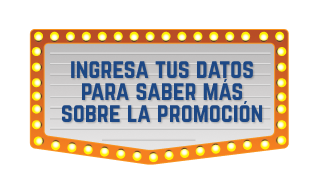
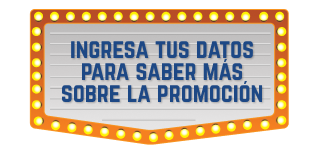
Organizar height de imagenes del landing

diff --git a/public/css/styles.css b/public/css/styles.css
@@ -1,1 +1,1 @@
-@import url("https://fonts.googleapis.com/css?family=Roboto:100,100i,300,300i,400,400i,500,500i,700,700i,900,900i&display=swap");a,abbr,acronym,address,applet,article,aside,audio,b,big,blockquote,body,canvas,caption,center,cite,code,dd,del,details,dfn,div,dl,dt,em,embed,fieldset,figcaption,figure,footer,form,h1,h2,h3,h4,h5,h6,header,hgroup,html,i,iframe,img,ins,kbd,label,legend,li,mark,menu,nav,object,ol,output,p,pre,q,ruby,s,samp,section,small,span,strike,strong,sub,summary,sup,table,tbody,td,tfoot,th,thead,time,tr,tt,u,ul,var,video{margin:0;padding:0;border:0;font-size:100%;font:inherit;vertical-align:baseline}article,aside,details,figcaption,figure,footer,header,hgroup,menu,nav,section{display:block}body{line-height:1;margin:0;padding:0}ol,ul{list-style:none}blockquote,q{quotes:none}blockquote:after,blockquote:before,q:after,q:before{content:"";content:none}table{border-collapse:collapse;border-spacing:0}*{margin:0;padding:0;box-sizing:border-box}body{background-color:#552e89}.landing{width:100%;font-family:Roboto,sans-serif;margin:0 auto}.landing .back{width:100%;height:800px;position:relative;z-index:1;display:block;background:url(../images/fondoHome.png);background-repeat:no-repeat;background-size:cover}:-ms-input-placeholder{opacity:1}::placeholder{color:#fff;opacity:1}:-ms-input-placeholder,::-ms-input-placeholder{color:#fff}.paragraphs{font-size:1.5em;font-weight:200;line-height:1.2em}.special{font-weight:900;font-size:1em}@media (min-width:771px) and (max-width:1200px){.landing .back{background-size:contain}}@media (min-width:601px) and (max-width:770px){.landing .back{background-size:contain}}@media (max-width:600px){.landing .back{background:url(../images/fondoMobile.png);background-repeat:no-repeat;background-size:contain}}.content-start{height:100%}.content-start .start{width:100%;height:100%;margin:0 auto;box-sizing:border-box}.content-start .start__promotional{width:100%;display:-ms-flexbox;display:flex}.content-start .start__promotional .title{width:100%}.content-start .start__promotional .title__image{height:450px}.content-start .start__promotional .logoPromotional{width:100%}.content-start .start__promotional .logoPromotional__image{height:209px}.content-start .start__promotional .cinema{width:100%;margin-top:1em}.content-start .start__promotional .cinema__image{height:80px}.content-start .start__form{width:100%;padding:0}.content-start .start__form .form{width:60%;margin:0 auto}.content-start .start__form .form__title{width:100%}.content-start .start__form .form__title .title{height:190px}.content-start .start__form .form__questions{width:100%}.content-start .start__form .form__questions .content-question{width:80%;color:#fff}.content-start .start__form .form__questions .content-question .question__user{width:100%;height:45px;margin:0 0 .5em;border:0;font-size:1.4em;color:#fff;border-radius:6px;background-color:hsla(0,0%,100%,.16)}.content-start .start__form .form__questions .content-question .question__user--submit{width:100%;margin:0;height:50px;font-size:1.4em;color:#fff;background-color:#5d3ea8}.content-start .start__form .form__questions .separator{width:80%;margin:.5em 0;display:-ms-flexbox;display:flex;-ms-flex-pack:center;justify-content:center;-ms-flex-align:center;align-items:center}.content-start .start__form .form__questions .separator__image{width:30%;height:20px;background:url(../images/separador.png);background-repeat:no-repeat;background-size:cover}.content-start .start__form .form__questions .others{width:80%;margin:0 auto}.content-start .start__form .form__questions .others .other{height:100%}.content-start .start__form .form__questions .others .other a{width:100%;height:45px;padding:0;border-radius:6px;overflow:hidden;text-decoration:none}.content-start .start__form .form__questions .others .other #loginWithFacebook{margin:0 0 .5em}.content-start .start__form .form__questions .others .other__bot{width:100%;height:100%;color:#5d3ea8;border-radius:6px;border:2px solid #5d3ea8;background-color:#fff;text-align:center;display:-ms-flexbox;display:flex;-ms-flex-pack:center;justify-content:center;-ms-flex-align:center;align-items:center;font-family:Roboto,sans-serif;font-weight:600;font-size:1.4em}.content-start .start__form .form__terms{width:100%;margin:.6em 0;font-family:Roboto,sans-serif;color:#fff}.content-start .start__form .form__terms .accept{width:80%;margin:.5em auto;display:-ms-flexbox;display:flex;-ms-flex-pack:start;justify-content:flex-start;-ms-flex-align:center;align-items:center}.content-start .start__form .form__terms .accept input[type=checkbox]{position:relative;cursor:pointer;margin-top:-.4em}.content-start .start__form .form__terms .accept input[type=checkbox]:before{content:"";display:block;position:absolute;width:15px;height:15px;top:0;left:0;background-color:#fff}.content-start .start__form .form__terms .accept input[type=checkbox]:checked:before{content:"";display:block;position:absolute;width:15px;height:15px;top:0;left:0;background-color:#1e80ef}.content-start .start__form .form__terms .accept input[type=checkbox]:checked:after{content:"";display:block;width:5px;height:10px;border:solid #fff;border-width:0 2px 2px 0;transform:rotate(45deg);position:absolute;top:2px;left:5px}.content-start .start__form .form__terms .accept__text{font-family:Roboto,sans-serif;margin:0 0 0 1em;font-weight:200}.content-start .start__form .form__terms .accept__text .link{text-decoration:none;color:#00b2ff;font-weight:200}.content-start .start__form .form__terms .conditions{width:80%;margin:0 auto}.content-start .start__form .form__terms .conditions__text{text-align:justify;font-size:.9em;font-weight:100;line-height:1.1em}.content-start .start__form .form__terms .conditions__text .link{color:#fff}#formLoading{display:none}.lds-ripple{display:inline-block;position:relative;width:80px;height:80px;margin:0 auto;display:block}.lds-ripple div{position:absolute;border:4px solid #fff;opacity:1;border-radius:50%;animation:a 1s cubic-bezier(0,.2,.8,1) infinite}.lds-ripple div:nth-child(2){animation-delay:-.5s}@keyframes a{0%{top:36px;left:36px;width:0;height:0;opacity:1}to{top:0;left:0;width:72px;height:72px;opacity:0}}@media (min-width:1201px) and (max-width:1800px){.content-start .start__promotional .cinema__image{height:80px}.content-start .start__form .form{width:80%}.content-start .start__form .form__questions .content-question{width:100%}.content-start .start__form .form__questions .content-question .question__user,.content-start .start__form .form__questions .content-question .question__user--submit{font-size:1.2em}.content-start .start__form .form__questions .separator__image{width:25%}.content-start .start__form .form__questions .others{width:100%}.content-start .start__form .form__questions .others .other__bot{font-size:1.2em}.content-start .start__form .form__terms,.content-start .start__form .form__terms .accept{width:100%}.content-start .start__form .form__terms .accept__text{font-family:Roboto,sans-serif;font-size:.9em;margin:0 0 0 1em;font-weight:200}.content-start .start__form .form__terms .conditions{width:100%}}@media (min-width:771px) and (max-width:1200px){.content-start .start__promotional{width:100%}.content-start .start__promotional .title__image{height:350px}.content-start .start__promotional .logoPromotional__image{height:150px}.content-start .start__promotional .cinema{margin:0 0 1em}.content-start .start__promotional .cinema__image{height:60px}.content-start .start__form{padding:0}.content-start .start__form .form{width:80%}.content-start .start__form .form__questions .content-question{width:100%}.content-start .start__form .form__questions .content-question .question__user,.content-start .start__form .form__questions .content-question .question__user--submit{font-size:1em}.content-start .start__form .form__questions .separator__image{width:40%;background-size:contain}.content-start .start__form .form__questions .others{width:100%}.content-start .start__form .form__questions .others .other__bot{font-size:1em}.content-start .start__form .form__terms{width:100%}.content-start .start__form .form__terms .accept{width:100%;margin:0 0 .5em}.content-start .start__form .form__terms .accept input[type=checkbox]{margin-top:-.1em}.content-start .start__form .form__terms .accept__text{font-family:Roboto,sans-serif;font-size:.75em;margin:0 0 0 .6em;font-weight:200}.content-start .start__form .form__terms .conditions{width:100%}.content-start .start__form .form__terms .conditions__text{font-size:.65em}}@media (min-width:601px) and (max-width:770px){.content-start .start__promotional{width:100%;display:-ms-flexbox;display:flex}.content-start .start__promotional .title{width:100%}.content-start .start__promotional .title__image{width:100%;height:auto;-o-object-fit:cover;object-fit:cover}.content-start .start__promotional .logoPromotional{width:100%}.content-start .start__promotional .logoPromotional__image{height:209px}.content-start .start__promotional .cinema{width:100%;margin-top:1em}.content-start .start__promotional .cinema__image{height:80px}.content-start .start__form{margin:1em 0;padding:0}.content-start .start__form .form{width:80%}.content-start .start__form .form__title{width:100%;height:25%}.content-start .start__form .form__questions .content-question{width:100%}.content-start .start__form .form__questions .content-question .question__user,.content-start .start__form .form__questions .content-question .question__user--submit{font-size:1em}.content-start .start__form .form__questions .separator{margin:.5em 0}.content-start .start__form .form__questions .separator__image{width:30%}.content-start .start__form .form__questions .others{width:100%}.content-start .start__form .form__questions .others .other__bot{font-size:1em}.content-start .start__form .form__terms{width:100%}.content-start .start__form .form__terms .accept{width:100%;margin:0 0 .5em}.content-start .start__form .form__terms .accept input[type=checkbox]{margin-top:-.1em}.content-start .start__form .form__terms .accept__text{font-family:Roboto,sans-serif;font-size:.6em;margin:0 0 0 1em;font-weight:200}.content-start .start__form .form__terms .conditions{width:100%;height:70%}.content-start .start__form .form__terms .conditions__text{font-size:.7em;font-weight:100;line-height:1.2em}}@media (max-width:600px){.content-start .start__promotional{margin:1em auto}.content-start .start__promotional .title__image{height:240px}.content-start .start__promotional .logoPromotional__image{height:160px}.content-start .start__promotional .cinema{margin:0}.content-start .start__promotional .cinema__image{height:45px}.content-start .start__form{margin:1.5em auto}.content-start .start__form .form{width:90%}.content-start .start__form .form__title{margin-top:0}.content-start .start__form .form__title .title{height:190px}.content-start .start__form .form__questions .content-question{width:100%}.content-start .start__form .form__questions .content-question .question__user{margin:0 0 .5em}.content-start .start__form .form__questions .content-question .question__user--submit{margin:0;font-size:1.2em}.content-start .start__form .form__questions .separator{width:100%}.content-start .start__form .form__questions .separator__image{width:40%;background-size:100%}.content-start .start__form .form__questions .others{width:100%}.content-start .start__form .form__questions .others .other__bot{font-size:1.2em}.content-start .start__form .form__terms .accept{width:100%;margin:0 0 .5em}.content-start .start__form .form__terms .accept__text{margin:0 0 0 .5em;font-size:.8em}.content-start .start__form .form__terms .conditions{width:100%}.content-start .start__form .form__terms .conditions__text{font-size:.65em;font-weight:100;line-height:1.1em}}.content-start{width:100%;box-sizing:border-box;position:absolute;top:0;left:0;z-index:2}.content-start .header{width:100%;margin:2em auto;box-sizing:border-box}.content-start .header__logo{display:-ms-flexbox;display:flex;-ms-flex-align:center;align-items:center}.content-start .header__logo .content-logo{width:100%}.content-start .header__logo .content-logo .logo{padding:0 0 0 7em;margin-bottom:-1em;width:100%}.content-start .header__logo .content-logo .logo__image{width:50%;height:auto;-o-object-fit:cover;object-fit:cover}.content-start .header__title{display:-ms-flexbox;display:flex;-ms-flex-align:center;align-items:center}.content-start .header__title .content-title{width:100%}.content-start .header__title .content-title .title{width:100%;display:-ms-flexbox;display:flex;padding:0 .5em 0 0;-ms-flex-pack:center;justify-content:center}.content-start .header__title .content-title .title__image{width:100%;height:auto;-o-object-fit:cover;object-fit:cover}.content-start .header__logocinema{display:-ms-flexbox;display:flex;-ms-flex-align:center;align-items:center}.content-start .header__logocinema .content-logocinema{width:100%}.content-start .header__logocinema .content-logocinema .logocinema{width:100%;display:-ms-flexbox;display:flex;padding:0 8em 0 0;margin:-1em 0 0;-ms-flex-pack:end;justify-content:flex-end}.content-start .header__logocinema .content-logocinema .logocinema__image{width:40%;height:auto;-o-object-fit:cover;object-fit:cover}.content-start .cabezera{width:100%;margin:1em auto}.content-start .cabezera .content-ticket{width:100%;display:-ms-flexbox;display:flex}.content-start .cabezera .content-ticket .ticket{width:100%}.content-start .cabezera .content-ticket .ticket__image{width:90%;height:auto;-o-object-fit:cover;object-fit:cover}.content-start .cabezera .content-combo{width:100%;display:-ms-flexbox;display:flex}.content-start .cabezera .content-combo .combo{width:100%}.content-start .cabezera .content-combo .combo__image{width:90%;height:auto;-o-object-fit:cover;object-fit:cover}.content-start .cabezera .separator{width:100%;height:250px;position:relative;display:-ms-flexbox;display:flex;-ms-flex-pack:center;justify-content:center;-ms-flex-align:center;align-items:center}.content-start .cabezera .separator .line{width:100%;position:relative;z-index:1}.content-start .cabezera .separator .line__image{width:60%;height:auto;-o-object-fit:cover;object-fit:cover}.content-start .cabezera .separator .content-imageProduct{width:100%;position:absolute;z-index:2}.content-start .cabezera .separator .content-imageProduct .content-ticket{width:100%;display:-ms-flexbox;display:flex}.content-start .cabezera .separator .content-imageProduct .content-ticket .ticket{width:100%}.content-start .cabezera .separator .content-imageProduct .content-ticket .ticket__image{width:80%;height:auto;-o-object-fit:cover;object-fit:cover}.content-start .cabezera .separator .content-imageProduct .content-combo{width:100%;display:-ms-flexbox;display:flex}.content-start .cabezera .separator .content-imageProduct .content-combo .combo{width:100%}.content-start .cabezera .separator .content-imageProduct .content-combo .combo__image{width:70%;height:auto;-o-object-fit:cover;object-fit:cover}.content-start .content-cinema{width:100%;height:1280px;margin:4em auto 0;position:relative}.content-start .content-cinema .cinema{width:100%;position:relative;z-index:2}.content-start .content-cinema .cinema .title{width:100%}.content-start .content-cinema .cinema .title__image{width:70%;height:auto;-o-object-fit:cover;object-fit:cover}.content-start .content-cinema .cinema .content-map{width:100%;margin:2em 0 0}.content-start .content-cinema .cinema .content-map .map{width:100%}.content-start .content-cinema .cinema .content-map .map__image{cursor:pointer;display:block;width:100%;height:auto;-o-object-fit:cover;object-fit:cover}.content-start .content-cinema .cinema .line{display:none}.content-start .content-cinema .cinema .conditions{width:70%;margin:2em auto;text-align:center;font-family:Roboto,sans-serif}.content-start .content-cinema .cinema .conditions a{cursor:pointer;text-decoration:none}.content-start .content-cinema .backmap{width:100%;bottom:0;position:absolute;z-index:1}.content-start .content-cinema .backmap__image{display:block;width:100%;height:auto;-o-object-fit:cover;object-fit:cover}@media (min-width:1201px) and (max-width:1800px){.content-start .header{width:100%;margin:3em 0 2em}.content-start .header__logo .content-logo{width:100%}.content-start .header__logo .content-logo .logo{padding:0 0 0 7em;width:100%}.content-start .header__logo .content-logo .logo__image{width:60%}.content-start .header__title .content-title .title__image{width:80%}.content-start .header__logocinema .content-logocinema .logocinema{padding:0 8em 0 0}.content-start .header__logocinema .content-logocinema .logocinema__image{width:45%}.content-start .cabezera{margin:1em auto}.content-start .cabezera .content-combo .combo__image,.content-start .cabezera .content-ticket .ticket__image{width:100%}.content-start .cabezera .separator .content-imageProduct .content-ticket .ticket__image{width:70%}.content-start .cabezera .separator .content-imageProduct .content-combo .combo__image{margin:0 2em 0 0}.content-start .content-cinema{height:1130px;margin:2em auto 0}.content-start .content-cinema .cinema .title__image{width:60%}.content-start .content-cinema .cinema .content-map{margin:2em 0 0}.content-start .content-cinema .cinema .content-map .map__image{width:100%}.content-start .content-cinema .cinema .conditions{width:65%}}@media (min-width:871px) and (max-width:1200px){.content-start .header{margin:3em auto 2em}.content-start .header__logo .content-logo .logo{padding:0 0 0 3em}.content-start .header__logo .content-logo .logo__image{width:80%}.content-start .header__logocinema .content-logocinema .logocinema{padding:0 3em 0 0}.content-start .header__logocinema .content-logocinema .logocinema__image{width:60%}.content-start .cabezera{margin:1em auto}.content-start .cabezera .content-combo .combo__image,.content-start .cabezera .content-ticket .ticket__image{width:100%}.content-start .cabezera .separator .content-imageProduct .content-ticket .ticket__image{width:90%}.content-start .cabezera .separator .content-imageProduct .content-combo .combo{margin:0 2em 0 0}.content-start .cabezera .separator .content-imageProduct .content-combo .combo__image{width:90%}.content-start .content-cinema{height:1150px;margin:2em auto 0}.content-start .content-cinema .cinema .title__image{width:80%}.content-start .content-cinema .cinema .content-map{margin:2em 0 0}.content-start .content-cinema .cinema .conditions{width:75%}}@media (min-width:601px) and (max-width:870px){.content-start .header{margin:3em 0 2em}.content-start .header__logo .content-logo .logo{display:-ms-flexbox;display:flex;-ms-flex-pack:center;justify-content:center;padding:0}.content-start .header__logo .content-logo .logo__image{width:60%}.content-start .header__title .content-title{margin:1em 0 0}.content-start .header__title .content-title .title__image{width:80%}.content-start .header__logocinema{display:none}.content-start .cabezera{margin:1em auto}.content-start .cabezera .content-combo .combo__image,.content-start .cabezera .content-ticket .ticket__image{width:auto}.content-start .cabezera .separator .content-imageProduct .content-combo .combo__image,.content-start .cabezera .separator .content-imageProduct .content-ticket .ticket__image{width:100%}.content-start .content-cinema{height:1100px}.content-start .content-cinema .cinema .title__image{width:100%}.content-start .content-cinema .cinema .content-map{margin:1em 0 0}.content-start .content-cinema .cinema .conditions,.content-start .content-cinema .cinema .content-map .map__image{width:100%}}@media (max-width:600px){.content-start .header{margin:2em 0 1em}.content-start .header__logo .content-logo .logo{display:-ms-flexbox;display:flex;-ms-flex-pack:center;justify-content:center;padding:0}.content-start .header__logo .content-logo .logo__image{width:70%}.content-start .header__title{margin:2em auto 0}.content-start .header__logocinema{display:none}.content-start .cabezera{margin:1em auto}.content-start .cabezera .content-combo .combo__image,.content-start .cabezera .content-ticket .ticket__image{width:100%}.content-start .cabezera .separator{height:150px}.content-start .cabezera .separator .content-imageProduct .content-ticket .ticket__image,.content-start .cabezera .separator .line__image{width:100%}.content-start .cabezera .separator .content-imageProduct .content-combo{padding:0 .2em 0 0}.content-start .cabezera .separator .content-imageProduct .content-combo .combo__image{width:100%}.content-start .content-cinema{height:0;margin:2em auto 0}.content-start .content-cinema .cinema .title__image{width:100%}.content-start .content-cinema .cinema .content-map{margin:1em 0 0}.content-start .content-cinema .cinema .line{display:block;width:100%;margin:1em auto}.content-start .content-cinema .cinema .line__image{width:100%;height:auto;-o-object-fit:cover;object-fit:cover}.content-start .content-cinema .cinema .conditions{width:100%;margin:0 0 1em;color:#fff}.content-start .content-cinema .cinema .conditions a{color:#fff}.content-start .content-cinema .backmap{display:none}}.modal{background-color:rgba(113,48,171,.5);position:fixed;top:0;right:0;bottom:0;left:0;opacity:0;box-sizing:border-box;pointer-events:none;z-index:3}.modal .content-info{position:relative}.modal .content-info .infoFondo{margin:.5em 0 0;position:relative}.modal .content-info .infoFondo__image{width:100%;height:auto;-o-object-fit:cover;object-fit:cover}.modal .content-info .modal-contenido{background-color:aqua;width:300px;padding:10px 20px;margin:20% auto;position:absolute}#ticket:target{opacity:1;pointer-events:auto}
+@import url("https://fonts.googleapis.com/css?family=Roboto:100,100i,300,300i,400,400i,500,500i,700,700i,900,900i&display=swap");a,abbr,acronym,address,applet,article,aside,audio,b,big,blockquote,body,canvas,caption,center,cite,code,dd,del,details,dfn,div,dl,dt,em,embed,fieldset,figcaption,figure,footer,form,h1,h2,h3,h4,h5,h6,header,hgroup,html,i,iframe,img,ins,kbd,label,legend,li,mark,menu,nav,object,ol,output,p,pre,q,ruby,s,samp,section,small,span,strike,strong,sub,summary,sup,table,tbody,td,tfoot,th,thead,time,tr,tt,u,ul,var,video{margin:0;padding:0;border:0;font-size:100%;font:inherit;vertical-align:baseline}article,aside,details,figcaption,figure,footer,header,hgroup,menu,nav,section{display:block}body{line-height:1;margin:0;padding:0}ol,ul{list-style:none}blockquote,q{quotes:none}blockquote:after,blockquote:before,q:after,q:before{content:"";content:none}table{border-collapse:collapse;border-spacing:0}*{margin:0;padding:0;box-sizing:border-box}body{background-color:#552e89}.landing{width:100%;font-family:Roboto,sans-serif;margin:0 auto}.landing .back{width:100%;height:800px;position:relative;z-index:1;display:block;background:url(../images/fondoHome.png);background-repeat:no-repeat;background-size:cover}:-ms-input-placeholder{opacity:1}::placeholder{color:#fff;opacity:1}:-ms-input-placeholder,::-ms-input-placeholder{color:#fff}.paragraphs{font-size:1.5em;font-weight:200;line-height:1.2em}.special{font-weight:900;font-size:1em}@media (min-width:771px) and (max-width:1200px){.landing .back{background-size:contain}}@media (min-width:601px) and (max-width:770px){.landing .back{background-size:contain}}@media (max-width:600px){.landing .back{background:url(../images/fondoMobile.png);background-repeat:no-repeat;background-size:contain}}.content-start{height:100%}.content-start .start{width:100%;height:100%;margin:0 auto;box-sizing:border-box}.content-start .start__promotional{width:100%;display:-ms-flexbox;display:flex}.content-start .start__promotional .title{width:100%}.content-start .start__promotional .title__image{width:50%;height:auto;-o-object-fit:cover;object-fit:cover}.content-start .start__promotional .logoPromotional{width:100%}.content-start .start__promotional .logoPromotional__image{width:30%;height:auto;-o-object-fit:cover;object-fit:cover}.content-start .start__promotional .cinema{width:100%;margin:.5em 0 .8em}.content-start .start__promotional .cinema__image{width:20%;height:auto;-o-object-fit:cover;object-fit:cover}.content-start .start__form{width:100%;padding:0}.content-start .start__form .form{width:60%;margin:0 auto}.content-start .start__form .form__title{width:100%;margin:0 0 1em}.content-start .start__form .form__title .title{width:50%;height:auto;-o-object-fit:cover;object-fit:cover}.content-start .start__form .form__questions{width:100%}.content-start .start__form .form__questions .content-question{width:80%;color:#fff}.content-start .start__form .form__questions .content-question .question__user{width:100%;height:45px;margin:0 0 .5em;border:0;font-size:1.4em;color:#fff;border-radius:6px;background-color:hsla(0,0%,100%,.16)}.content-start .start__form .form__questions .content-question .question__user--submit{width:100%;margin:0;height:50px;font-size:1.4em;color:#fff;background-color:#5d3ea8}.content-start .start__form .form__questions .separator{width:80%;margin:.5em 0;display:-ms-flexbox;display:flex;-ms-flex-pack:center;justify-content:center;-ms-flex-align:center;align-items:center}.content-start .start__form .form__questions .separator__image{width:30%;height:20px;background:url(../images/separador.png);background-repeat:no-repeat;background-size:cover}.content-start .start__form .form__questions .others{width:80%;margin:0 auto}.content-start .start__form .form__questions .others .other{height:100%}.content-start .start__form .form__questions .others .other a{width:100%;height:45px;padding:0;border-radius:6px;overflow:hidden;text-decoration:none}.content-start .start__form .form__questions .others .other #loginWithFacebook{margin:0 0 .5em}.content-start .start__form .form__questions .others .other__bot{width:100%;height:100%;color:#5d3ea8;border-radius:6px;border:2px solid #5d3ea8;background-color:#fff;text-align:center;display:-ms-flexbox;display:flex;-ms-flex-pack:center;justify-content:center;-ms-flex-align:center;align-items:center;font-family:Roboto,sans-serif;font-weight:600;font-size:1.4em}.content-start .start__form .form__terms{width:100%;margin:.6em 0;font-family:Roboto,sans-serif;color:#fff}.content-start .start__form .form__terms .accept{width:80%;margin:.5em auto;display:-ms-flexbox;display:flex;-ms-flex-pack:start;justify-content:flex-start;-ms-flex-align:center;align-items:center}.content-start .start__form .form__terms .accept input[type=checkbox]{position:relative;cursor:pointer;margin-top:-.4em}.content-start .start__form .form__terms .accept input[type=checkbox]:before{content:"";display:block;position:absolute;width:15px;height:15px;top:0;left:0;background-color:#fff}.content-start .start__form .form__terms .accept input[type=checkbox]:checked:before{content:"";display:block;position:absolute;width:15px;height:15px;top:0;left:0;background-color:#1e80ef}.content-start .start__form .form__terms .accept input[type=checkbox]:checked:after{content:"";display:block;width:5px;height:10px;border:solid #fff;border-width:0 2px 2px 0;transform:rotate(45deg);position:absolute;top:2px;left:5px}.content-start .start__form .form__terms .accept__text{font-family:Roboto,sans-serif;margin:0 0 0 1em;font-weight:200}.content-start .start__form .form__terms .accept__text .link{text-decoration:none;color:#00b2ff;font-weight:200}.content-start .start__form .form__terms .conditions{width:80%;margin:0 auto}.content-start .start__form .form__terms .conditions__text{text-align:justify;font-size:.9em;font-weight:100;line-height:1.1em}.content-start .start__form .form__terms .conditions__text .link{color:#fff}#formLoading{display:none}.lds-ripple{display:inline-block;position:relative;width:80px;height:80px;margin:0 auto;display:block}.lds-ripple div{position:absolute;border:4px solid #fff;opacity:1;border-radius:50%;animation:a 1s cubic-bezier(0,.2,.8,1) infinite}.lds-ripple div:nth-child(2){animation-delay:-.5s}@keyframes a{0%{top:36px;left:36px;width:0;height:0;opacity:1}to{top:0;left:0;width:72px;height:72px;opacity:0}}@media (min-width:1201px) and (max-width:1800px){.content-start .start__form .form{width:80%}.content-start .start__form .form__title .title{width:60%}.content-start .start__form .form__questions .content-question{width:100%}.content-start .start__form .form__questions .content-question .question__user,.content-start .start__form .form__questions .content-question .question__user--submit{font-size:1.2em}.content-start .start__form .form__questions .separator__image{width:25%}.content-start .start__form .form__questions .others{width:100%}.content-start .start__form .form__questions .others .other__bot{font-size:1.2em}.content-start .start__form .form__terms,.content-start .start__form .form__terms .accept{width:100%}.content-start .start__form .form__terms .accept__text{font-family:Roboto,sans-serif;font-size:.9em;margin:0 0 0 1em;font-weight:200}.content-start .start__form .form__terms .conditions{width:100%}}@media (min-width:871px) and (max-width:1200px){.content-start .start__promotional .title__image{width:80%}.content-start .start__promotional .logoPromotional__image{width:50%}.content-start .start__promotional .cinema__image{width:30%}.content-start .start__form{padding:0}.content-start .start__form .form{width:80%}.content-start .start__form .form__questions .content-question,.content-start .start__form .form__title .title{width:100%}.content-start .start__form .form__questions .content-question .question__user,.content-start .start__form .form__questions .content-question .question__user--submit{font-size:1em}.content-start .start__form .form__questions .separator__image{width:50%;background-size:contain}.content-start .start__form .form__questions .others{width:100%}.content-start .start__form .form__questions .others .other__bot{font-size:1em}.content-start .start__form .form__terms{width:100%}.content-start .start__form .form__terms .accept{width:100%;margin:0 0 .5em}.content-start .start__form .form__terms .accept input[type=checkbox]{margin-top:-.1em}.content-start .start__form .form__terms .accept__text{font-family:Roboto,sans-serif;font-size:.75em;margin:0 0 0 .6em;font-weight:200}.content-start .start__form .form__terms .conditions{width:100%}.content-start .start__form .form__terms .conditions__text{font-size:.65em}}@media (min-width:601px) and (max-width:870px){.content-start .start__promotional .title__image{width:100%}.content-start .start__promotional .logoPromotional__image{width:70%}.content-start .start__promotional .cinema__image{width:40%}.content-start .start__form{margin:1em 0;padding:0}.content-start .start__form .form{width:80%}.content-start .start__form .form__questions .content-question,.content-start .start__form .form__title .title{width:100%}.content-start .start__form .form__questions .content-question .question__user,.content-start .start__form .form__questions .content-question .question__user--submit{font-size:1em}.content-start .start__form .form__questions .separator{margin:.5em 0}.content-start .start__form .form__questions .separator__image{width:40%;background-size:contain}.content-start .start__form .form__questions .others{width:100%}.content-start .start__form .form__questions .others .other__bot{font-size:1em}.content-start .start__form .form__terms{width:100%}.content-start .start__form .form__terms .accept{width:100%;margin:0 0 .5em}.content-start .start__form .form__terms .accept input[type=checkbox]{margin-top:-.1em}.content-start .start__form .form__terms .accept__text{font-family:Roboto,sans-serif;font-size:.6em;margin:0 0 0 1em;font-weight:200}.content-start .start__form .form__terms .conditions{width:100%;height:70%}.content-start .start__form .form__terms .conditions__text{font-size:.7em;font-weight:100;line-height:1.2em}}@media (max-width:600px){.content-start .start__promotional{margin:2em 0 0}.content-start .start__promotional .title__image{width:100%}.content-start .start__promotional .logoPromotional__image{width:80%}.content-start .start__promotional .cinema__image{width:40%}.content-start .start__form{margin:1.5em auto}.content-start .start__form .form{width:90%}.content-start .start__form .form__questions .content-question,.content-start .start__form .form__title .title{width:100%}.content-start .start__form .form__questions .content-question .question__user{margin:0 0 .5em}.content-start .start__form .form__questions .content-question .question__user--submit{margin:0;font-size:1.2em}.content-start .start__form .form__questions .separator{width:100%}.content-start .start__form .form__questions .separator__image{width:40%;background-size:100%}.content-start .start__form .form__questions .others{width:100%}.content-start .start__form .form__questions .others .other__bot{font-size:1.2em}.content-start .start__form .form__terms .accept{width:100%;margin:0 0 .5em}.content-start .start__form .form__terms .accept__text{margin:0 0 0 .5em;font-size:.8em}.content-start .start__form .form__terms .conditions{width:100%}.content-start .start__form .form__terms .conditions__text{font-size:.65em;font-weight:100;line-height:1.1em}}.content-start{width:100%;box-sizing:border-box;position:absolute;top:0;left:0;z-index:2}.content-start .header{width:100%;margin:2em auto;box-sizing:border-box}.content-start .header__logo{display:-ms-flexbox;display:flex;-ms-flex-align:center;align-items:center}.content-start .header__logo .content-logo{width:100%}.content-start .header__logo .content-logo .logo{padding:0 0 0 7em;margin-bottom:-1em;width:100%}.content-start .header__logo .content-logo .logo__image{width:50%;height:auto;-o-object-fit:cover;object-fit:cover}.content-start .header__title{display:-ms-flexbox;display:flex;-ms-flex-align:center;align-items:center}.content-start .header__title .content-title{width:100%}.content-start .header__title .content-title .title{width:100%;display:-ms-flexbox;display:flex;padding:0 .5em 0 0;-ms-flex-pack:center;justify-content:center}.content-start .header__title .content-title .title__image{width:100%;height:auto;-o-object-fit:cover;object-fit:cover}.content-start .header__logocinema{display:-ms-flexbox;display:flex;-ms-flex-align:center;align-items:center}.content-start .header__logocinema .content-logocinema{width:100%}.content-start .header__logocinema .content-logocinema .logocinema{width:100%;display:-ms-flexbox;display:flex;padding:0 8em 0 0;margin:-1em 0 0;-ms-flex-pack:end;justify-content:flex-end}.content-start .header__logocinema .content-logocinema .logocinema__image{width:40%;height:auto;-o-object-fit:cover;object-fit:cover}.content-start .cabezera{width:100%;margin:1em auto}.content-start .cabezera .content-ticket{width:100%;display:-ms-flexbox;display:flex}.content-start .cabezera .content-ticket .ticket{width:100%}.content-start .cabezera .content-ticket .ticket__image{width:90%;height:auto;-o-object-fit:cover;object-fit:cover}.content-start .cabezera .content-combo{width:100%;display:-ms-flexbox;display:flex}.content-start .cabezera .content-combo .combo{width:100%}.content-start .cabezera .content-combo .combo__image{width:90%;height:auto;-o-object-fit:cover;object-fit:cover}.content-start .cabezera .separator{width:100%;height:250px;position:relative;display:-ms-flexbox;display:flex;-ms-flex-pack:center;justify-content:center;-ms-flex-align:center;align-items:center}.content-start .cabezera .separator .line{width:100%;position:relative;z-index:1}.content-start .cabezera .separator .line__image{width:60%;height:auto;-o-object-fit:cover;object-fit:cover}.content-start .cabezera .separator .content-imageProduct{width:100%;position:absolute;z-index:2}.content-start .cabezera .separator .content-imageProduct .content-ticket{width:100%;display:-ms-flexbox;display:flex}.content-start .cabezera .separator .content-imageProduct .content-ticket .ticket{width:100%}.content-start .cabezera .separator .content-imageProduct .content-ticket .ticket__image{width:80%;height:auto;-o-object-fit:cover;object-fit:cover}.content-start .cabezera .separator .content-imageProduct .content-combo{width:100%;display:-ms-flexbox;display:flex}.content-start .cabezera .separator .content-imageProduct .content-combo .combo{width:100%}.content-start .cabezera .separator .content-imageProduct .content-combo .combo__image{width:70%;height:auto;-o-object-fit:cover;object-fit:cover}.content-start .content-cinema{width:100%;height:1280px;margin:4em auto 0;position:relative}.content-start .content-cinema .cinema{width:100%;position:relative;z-index:2}.content-start .content-cinema .cinema .title{width:100%}.content-start .content-cinema .cinema .title__image{width:70%;height:auto;-o-object-fit:cover;object-fit:cover}.content-start .content-cinema .cinema .content-map{width:100%;margin:2em 0 0}.content-start .content-cinema .cinema .content-map .map{width:100%}.content-start .content-cinema .cinema .content-map .map__image{cursor:pointer;display:block;width:100%;height:auto;-o-object-fit:cover;object-fit:cover}.content-start .content-cinema .cinema .line{display:none}.content-start .content-cinema .cinema .conditions{width:70%;margin:2em auto;text-align:center;font-family:Roboto,sans-serif}.content-start .content-cinema .cinema .conditions a{cursor:pointer;text-decoration:none}.content-start .content-cinema .backmap{width:100%;bottom:0;position:absolute;z-index:1}.content-start .content-cinema .backmap__image{display:block;width:100%;height:auto;-o-object-fit:cover;object-fit:cover}@media (min-width:1201px) and (max-width:1800px){.content-start .header{width:100%;margin:3em 0 2em}.content-start .header__logo .content-logo{width:100%}.content-start .header__logo .content-logo .logo{padding:0 0 0 7em;width:100%}.content-start .header__logo .content-logo .logo__image{width:60%}.content-start .header__title .content-title .title__image{width:80%}.content-start .header__logocinema .content-logocinema .logocinema{padding:0 8em 0 0}.content-start .header__logocinema .content-logocinema .logocinema__image{width:45%}.content-start .cabezera{margin:1em auto}.content-start .cabezera .content-combo .combo__image,.content-start .cabezera .content-ticket .ticket__image{width:100%}.content-start .cabezera .separator .content-imageProduct .content-ticket .ticket__image{width:70%}.content-start .cabezera .separator .content-imageProduct .content-combo .combo__image{margin:0 2em 0 0}.content-start .content-cinema{height:1130px;margin:2em auto 0}.content-start .content-cinema .cinema .title__image{width:60%}.content-start .content-cinema .cinema .content-map{margin:2em 0 0}.content-start .content-cinema .cinema .content-map .map__image{width:100%}.content-start .content-cinema .cinema .conditions{width:65%}}@media (min-width:871px) and (max-width:1200px){.content-start .header{margin:3em auto 2em}.content-start .header__logo .content-logo .logo{padding:0 0 0 3em}.content-start .header__logo .content-logo .logo__image{width:80%}.content-start .header__logocinema .content-logocinema .logocinema{padding:0 3em 0 0}.content-start .header__logocinema .content-logocinema .logocinema__image{width:60%}.content-start .cabezera{margin:1em auto}.content-start .cabezera .content-combo .combo__image,.content-start .cabezera .content-ticket .ticket__image{width:100%}.content-start .cabezera .separator .content-imageProduct .content-ticket .ticket__image{width:90%}.content-start .cabezera .separator .content-imageProduct .content-combo .combo{margin:0 2em 0 0}.content-start .cabezera .separator .content-imageProduct .content-combo .combo__image{width:90%}.content-start .content-cinema{height:1150px;margin:2em auto 0}.content-start .content-cinema .cinema .title__image{width:80%}.content-start .content-cinema .cinema .content-map{margin:2em 0 0}.content-start .content-cinema .cinema .conditions{width:75%}}@media (min-width:601px) and (max-width:870px){.content-start .header{margin:3em 0 2em}.content-start .header__logo .content-logo .logo{display:-ms-flexbox;display:flex;-ms-flex-pack:center;justify-content:center;padding:0}.content-start .header__logo .content-logo .logo__image{width:60%}.content-start .header__title .content-title{margin:1em 0 0}.content-start .header__title .content-title .title__image{width:80%}.content-start .header__logocinema{display:none}.content-start .cabezera{margin:1em auto}.content-start .cabezera .content-combo .combo__image,.content-start .cabezera .content-ticket .ticket__image{width:auto}.content-start .cabezera .separator .content-imageProduct .content-combo .combo__image,.content-start .cabezera .separator .content-imageProduct .content-ticket .ticket__image{width:100%}.content-start .content-cinema{height:1100px}.content-start .content-cinema .cinema .title__image{width:100%}.content-start .content-cinema .cinema .content-map{margin:1em 0 0}.content-start .content-cinema .cinema .conditions,.content-start .content-cinema .cinema .content-map .map__image{width:100%}}@media (max-width:600px){.content-start .header{margin:2em 0 1em}.content-start .header__logo .content-logo .logo{display:-ms-flexbox;display:flex;-ms-flex-pack:center;justify-content:center;padding:0}.content-start .header__logo .content-logo .logo__image{width:70%}.content-start .header__title{margin:2em auto 0}.content-start .header__logocinema{display:none}.content-start .cabezera{margin:1em auto}.content-start .cabezera .content-combo .combo__image,.content-start .cabezera .content-ticket .ticket__image{width:100%}.content-start .cabezera .separator{height:150px}.content-start .cabezera .separator .content-imageProduct .content-ticket .ticket__image,.content-start .cabezera .separator .line__image{width:100%}.content-start .cabezera .separator .content-imageProduct .content-combo{padding:0 .2em 0 0}.content-start .cabezera .separator .content-imageProduct .content-combo .combo__image{width:100%}.content-start .content-cinema{height:0;margin:2em auto 0}.content-start .content-cinema .cinema .title__image{width:100%}.content-start .content-cinema .cinema .content-map{margin:1em 0 0}.content-start .content-cinema .cinema .line{display:block;width:100%;margin:1em auto}.content-start .content-cinema .cinema .line__image{width:100%;height:auto;-o-object-fit:cover;object-fit:cover}.content-start .content-cinema .cinema .conditions{width:100%;margin:0 0 1em;color:#fff}.content-start .content-cinema .cinema .conditions a{color:#fff}.content-start .content-cinema .backmap{display:none}}.modal{background-color:rgba(113,48,171,.5);position:fixed;top:0;right:0;bottom:0;left:0;opacity:0;box-sizing:border-box;pointer-events:none;z-index:3}.modal .content-info{position:relative}.modal .content-info .infoFondo{margin:.5em 0 0;position:relative}.modal .content-info .infoFondo__image{width:100%;height:auto;-o-object-fit:cover;object-fit:cover}.modal .content-info .modal-contenido{background-color:aqua;width:300px;padding:10px 20px;margin:20% auto;position:absolute}#ticket:target{opacity:1;pointer-events:auto}

diff --git a/src/scss/_landing.scss b/src/scss/_landing.scss
@@ -23,20 +23,26 @@ $link: #00B2FF;
       .title {
         width: 100%;
         &__image {
-          height: 450px;
+          width: 50%;
+          height: auto;
+          object-fit: cover;
         }
       }
       .logoPromotional {
         width: 100%;
         &__image {
-          height: 209px;
+          width: 30%;
+          height: auto;
+          object-fit: cover;
         }
       }
       .cinema {
         width: 100%;
-        margin-top: 1em;
+        margin: .5em 0 .8em;
         &__image {
-          height: 80px;
+          width: 20%;
+          height: auto;
+          object-fit: cover;
         }
       }
     }
@@ -48,8 +54,11 @@ $link: #00B2FF;
         margin: 0 auto;
         &__title {
           width: 100%;
+          margin: 0 0 1em 0;
           .title {
-            height: 190px;
+            width: 50%;
+            height: auto;
+            object-fit: cover;
           }
         }
         &__questions {
@@ -252,16 +261,14 @@ $link: #00B2FF;
 @media all and (min-width: 1201px) and (max-width: 1800px){
   .content-start {
     .start {
-      &__promotional {
-        .cinema {
-          &__image {
-            height: 80px;
-          }
-        }
-      }
       &__form {
         .form {
           width: 80%;
+          &__title {
+            .title {
+              width: 60%;
+            }
+          }
           &__questions {          
             .content-question {
               width: 100%;
@@ -309,25 +316,23 @@ $link: #00B2FF;
   }
 }
 
-@media all and (min-width: 771px) and (max-width: 1200px){
+@media all and (min-width: 871px) and (max-width: 1200px){
   .content-start {
     .start {
       &__promotional {
-        width: 100%;
         .title {
           &__image {
-            height: 350px;
+            width: 80%;
           }
         }
         .logoPromotional {
           &__image {
-            height: 150px;
+            width: 50%;
           }
         }
         .cinema {
-          margin: 0 0 1em 0;
           &__image {
-            height: 60px;
+            width: 30%;
           }
         }
       }
@@ -335,6 +340,11 @@ $link: #00B2FF;
         padding: 0;
         .form {
           width: 80%;
+          &__title {
+            .title {
+              width: 100%;
+            }
+          }
           &__questions {          
             .content-question {
               width: 100%;
@@ -349,7 +359,7 @@ $link: #00B2FF;
             }
             .separator {
               &__image {
-                width: 40%;
+                width: 50%;
                 background-size: contain;
               }
             }
@@ -390,31 +400,23 @@ $link: #00B2FF;
   }
 }
 
-@media all and (min-width: 601px) and (max-width: 770px){
+@media all and (min-width: 601px) and (max-width: 870px){
   .content-start {
     .start {
       &__promotional {
-        width: 100%;
-        display: flex;
         .title {
-          width: 100%;
           &__image {
             width: 100%;
-            height: auto;
-            object-fit: cover;
           }
         }
         .logoPromotional {
-          width: 100%;
           &__image {
-            height: 209px;
+            width: 70%;
           }
         }
         .cinema {
-          width: 100%;
-          margin-top: 1em;
           &__image {
-            height: 80px;
+            width: 40%;
           }
         }
       }
@@ -424,8 +426,9 @@ $link: #00B2FF;
         .form {
           width: 80%;
           &__title {
-            width: 100%;
-            height: 25%;
+            .title {
+              width: 100%;
+            }
           }
           &__questions {          
             .content-question {
@@ -442,7 +445,8 @@ $link: #00B2FF;
             .separator {
               margin: .5em 0;
               &__image {
-                width: 30%;
+                width: 40%;
+                background-size: contain;
               }
             }
             .others {
@@ -489,21 +493,20 @@ $link: #00B2FF;
   .content-start {
     .start {
       &__promotional {
-        margin: 1em auto;
+        margin: 2em 0 0 0;
         .title {
           &__image {
-            height: 240px;
+            width: 100%;
           }
         }
         .logoPromotional {
           &__image {
-            height: 160px;
+            width: 80%;
           }
         }
         .cinema {
-          margin: 0;
           &__image {
-            height: 45px;
+            width: 40%;
           }
         }
       }
@@ -512,9 +515,8 @@ $link: #00B2FF;
         .form {
           width: 90%;
           &__title {
-            margin-top: 0;
             .title {
-              height: 190px;
+              width: 100%;
             }
           }
           &__questions {
